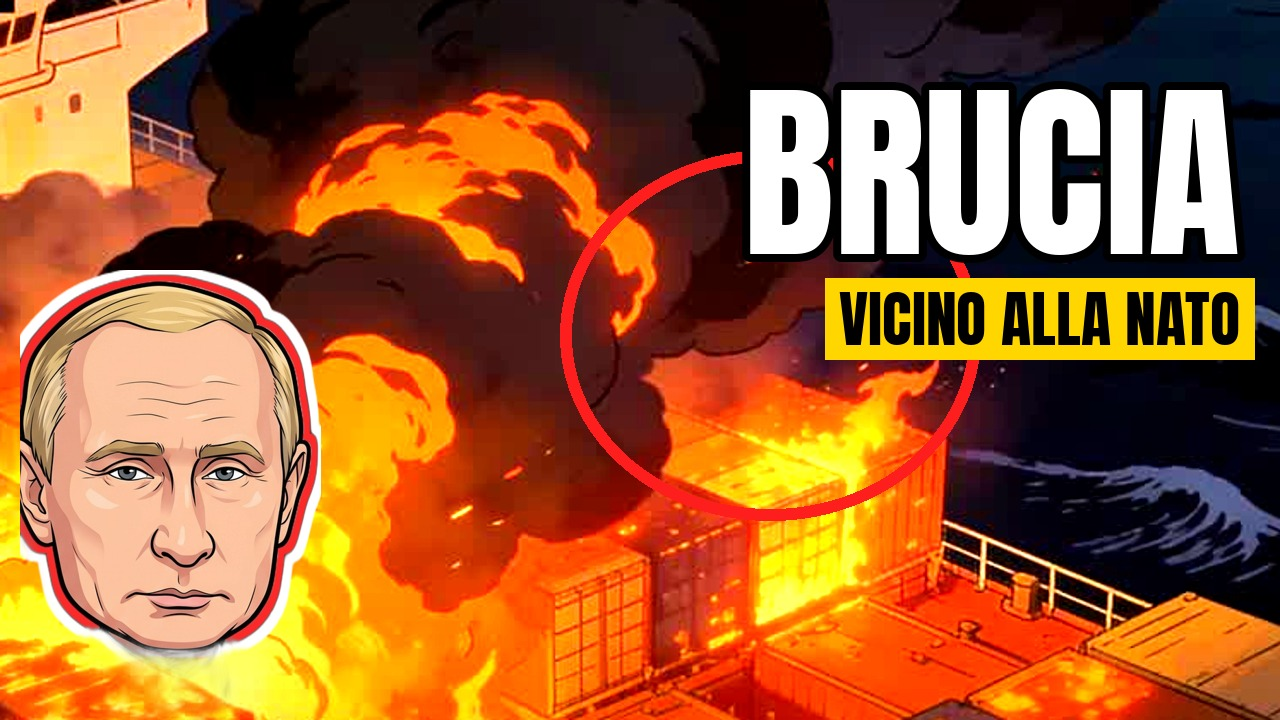
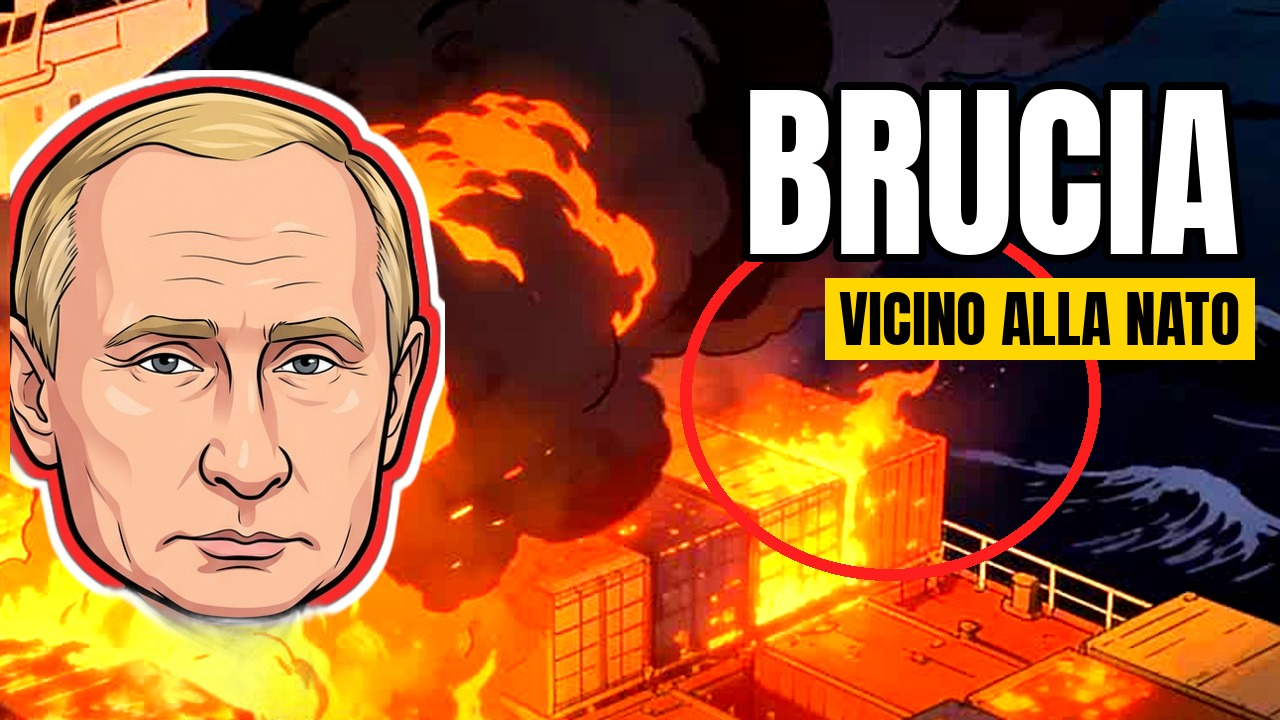
Copertine notizie: volto grande (gancio principale)
Claude-Session: https://claude.ai/code/session_013ApoDmMcM7xnohpDpgQ76W

diff --git a/video_notizie.py b/video_notizie.py
@@ -1361,16 +1361,17 @@ def impatto(scena, posa_png, c, righe, box, giorno, variante):
         d.rectangle((bb[0] - pd, bb[1] - pd, bb[2] + pd, bb[3] + pd), fill=bg); d.text((xy[0] * k, xy[1] * k), t, font=f_, fill=fg, anchor=anchor)
     if stile == 'A':
         im = sc; d = ImageDraw.Draw(im)
-        v = volto(450); im.alpha_composite(v, (int(10 * k), H - v.height))
-        scrivi(d, (1240, 30), parola, 190, 800, 'white', 'ra')
+        v = volto(650); im.alpha_composite(v, (int(10 * k), H - v.height))   # 23 nov (Giorgio): il volto e' il gancio, grande e riconoscibile
+        lib = 1280 - v.width / k - 80
+        scrivi(d, (1240, 30), parola, 190, lib, 'white', 'ra')
         if etich:
-            riquadro(d, (1240, 272), etich, 62, 620, 'black', (255, 214, 0), 'ra')
+            riquadro(d, (1240, 272), etich, 62, lib - 20, 'black', (255, 214, 0), 'ra')
     elif stile == 'B':
         im = Image.new('RGBA', (W, H), (0, 0, 0, 255))
         im.paste(sc.crop((int(240 * k), 0, int(1040 * k), int(588 * k))), (int(480 * k), 0))
         im.paste((170, 0, 0, 255), (0, 0, int(480 * k), H)); d = ImageDraw.Draw(im)
         d.polygon([(470 * k, 0), (510 * k, 0), (470 * k, H), (430 * k, H)], fill=(255, 214, 0))
-        v = volto(600, (0, 0, 0), 6); im.alpha_composite(v, (max(0, int(240 * k) - v.width // 2), H - v.height))
+        v = volto(680, (0, 0, 0), 6); im.alpha_composite(v, (max(0, int(250 * k) - v.width // 2), H - v.height))
         d = ImageDraw.Draw(im); d.rectangle((480 * k, 588 * k, W, H), fill=(0, 0, 0))
         scrivi(d, (810, 654), domanda, 96, 560, (255, 214, 0), 'mm', 0)
     else:
